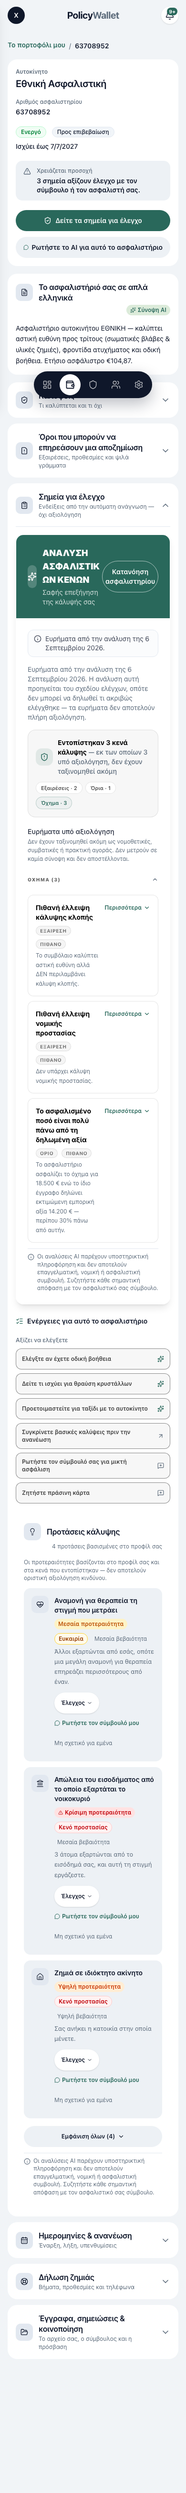
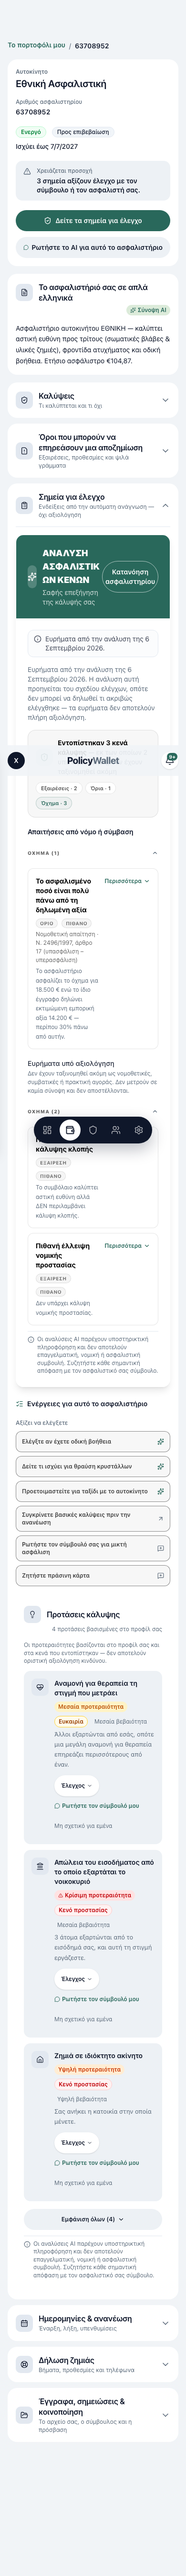
docs(transparency): F5 rendered numbers before/after, and the two seams the run exposed
Claude-Session: https://claude.ai/code/session_01HcvWFqTsFUtqnFVWiZpAyh

diff --git a/docs/evidence/transparency-f5/RESULT.md b/docs/evidence/transparency-f5/RESULT.md
@@ -1,0 +1,37 @@
+# F5 — rendered numbers before and after citation-backed provenance (PW-TRANSPARENCY-02 close-out)
+
+Seeded customer wallet (`e2e-ph@policywallet.test`: her own analysed motor policy with one under-review finding, plus the agent-demo motor policy `#63708952` carrying two unauthored findings and — new in this run — one AUTHORED finding, `insured_value_above_declared`, seeded by `scripts/seed-agent-demo.mjs`) and the seeded agent book (`e2e-agent@`), 390px, Greek.
+
+**Before** = the R3 "after" capture (`docs/evidence/transparency-r3/r3-after/`, 2026-09-05 13:5xZ, NEW-UI code before this block). The fixture differed by the one authored finding, which the pre-F5 code would have rendered as `under_review` — counted in no summary, no chip, no KPI — so the before numbers are the same with or without it. **After** = `docs/evidence/transparency-f5/after/` (2026-09-05 21:5xZ, this branch at `5b5e1455`), captured by `tests/measure/r3-evidence.spec.ts`, `r3-evidence-agent.spec.ts`, `r3-evidence-f5.spec.ts`, `r3-evidence-agent-f5.spec.ts`.
+
+## B2C dashboard and wallet
+
+| site | before | after |
+|---|---|---|
+| Home hero open-recommendation count (`recommendation.openCount`) | 4 ευρήματα ίσως χρειάζονται έλεγχο | 4 ευρήματα ίσως χρειάζονται έλεγχο — unchanged: the seed writes gap rows, not recommendation rows, so no recommendation derives from the classified finding in this fixture |
+| Home attention list | 3 items | 3 items (same three; none gap-derived) |
+| Home gap tile | «Τα ευρήματα υπό αξιολόγηση δεν περιλαμβάνονται σε αυτή τη σύνοψη — τα …» (under review only) | **«1 Νομοθετική απαίτηση»** (`gap.provenanceCount#legislative`) + the under-review sentence |
+| /protection headline | 3 σημεία υπό αξιολόγηση στα ασφαλιστήριά σας — δεν έχουν ταξινομηθεί ακόμη, οπότε δεν μετρούν ως ευρήματα. | **Εντοπίστηκε 1 σημείο προς έλεγχο στα ασφαλιστήριά σας — και 3 υπό αξιολόγηση, που δεν έχουν ταξινομηθεί ακόμη.** |
+| /protection card microcopy (coverage-insights card of the classified finding) | class label only («Υπό αξιολόγηση») | **Νομοθετική απαίτηση · Ν. 2496/1997, άρθρο 17 (υπασφάλιση – υπερασφάλιση)** (`protection-citation-390.png`) |
+| Seeded policy findings page — summary band | (run 1, before the seam fix below) «— εκ των οποίων 3 υπό αξιολόγηση…», no citation | **— εκ των οποίων 2 υπό αξιολόγηση, δεν έχουν ταξινομηθεί ακόμη**; the classified card renders `gap.citation` = «Νομοθετική απαίτηση · Ν. 2496/1997, άρθρο 17 (υπασφάλιση – υπερασφάλιση)» (`policy-citation-390.png`) |
+
+## Agent book
+
+| site | before | after |
+|---|---|---|
+| KPI «Με κενά κάλυψης» (`agent.gapClients`) | Με κενά κάλυψης0 | **Με κενά κάλυψης1** |
+| Client card chip (`client.openGapCount`) | not rendered (0 classified) | **«1 ανοιχτά ευρήματα»** (singular label fixed in this block; run 1 said «1 ανοιχτά ευρήματα») |
+| Client list group | «Σε καλή πορεία (1)» | **«Χρειάζεται προσοχή (1)»** |
+| KPI «Μέσος δείκτης προστασίας» | 16/100 | **absent** (F2) — `scoreWords: false` |
+| /insights recent-gaps pills (`gap.provenance`) | 3 × «Υπό αξιολόγηση» (run 1 — see seam 2) | **«Νομοθετική απαίτηση · Ν. 2496/1997, άρθρο 17 (υπασφάλιση – υπερασφάλιση)» · «Υπό αξιολόγηση» · «Υπό αξιολόγηση»** (`agent-insights-citation-390.png`) |
+
+## Two seams this evidence run exposed (both fixed in `5b5e1455`, both guarded)
+
+1. **The findings page and the home tally disagreed about the same finding.** Report items carry `normalizeGapSlug`'s kebab form (`insured-value-above-declared`); the provenance map is keyed by the authored snake_case slug. The home tally (definition slug) said «1 Νομοθετική απαίτηση»; the policy's own findings page said «3 υπό αξιολόγηση» and rendered no citation. Fix: `canonicalGapSlug` in the ONE lookup (`provenanceEntry`) and in `catalogueIndexOf`, so every caller agrees. Test: `provenance-citations-render.test.tsx` pins both forms and the findings-page summary.
+2. **The agent insights rows never carried a slug** (`definition: { select: { title: true } }`), so `provenanceOf(undefined)` made every pill «Υπό αξιολόγηση» since B3 — a pre-existing defect that only a classified slug could reveal. Fix: slug selected and typed on the DTO.
+
+Neither could have been found by the unit guards alone: each piece answered correctly for its own slug form. The gate checks code; journeys check the product.
+
+## Counts that name a class without a citation — deliberately
+
+`gap.provenanceCount#legislative` («1 Νομοθετική απαίτηση») on the home and the agent KPI/chip are COUNT DOORS (B4): they name no requirement, and the page they open renders each requirement with its citation. The render-site guard exempts the class-only section heading of the findings list for the same reason, with the reason in the file.

diff --git a/docs/transparency/PROGRESS.md b/docs/transparency/PROGRESS.md
@@ -47,6 +47,7 @@ One entry per goal. Each entry carries the before/after metrics the goal's accep
 | 2026-09-05 | **No rules-only run kind.** The protection refresh action now refreshes the profile engine only; `POST /api/v1/jobs/process-policy` creates and enqueues a real run (same contract shape: `processed`, plus `run_id` / `queued`; a gated run returns `processed: false, reason`). | A rules-only re-evaluation would need a second run kind that every "latest run" reader (14 sites, incl. the quota counter) must exclude — the larger blast radius. Findings change only when a run runs, which is what provenance means. C1 revisits this when a human correction must re-evaluate. | Re-add a rules-only executor behind the single writer. |
 | 2026-09-05 | **Art. 15 export keeps superseded rows** (`compliance.service.ts` named as a history reader). | A person's superseded findings are still their data. | Filter it and update the guard's list. |
 | 2026-09-05 | **`overall_success_pct` / `success_pct` dropped from the run API response** (A1.2) rather than kept for an unknown external consumer. | The number is fabricated; a consumer rendering it is the defect. Field removal from JSON does not break a client that ignores it. | Re-add the fields. |
+| 2026-09-06 | **One provenance lookup accepts the authored slug and its kebab form** (`canonicalGapSlug` in `provenanceEntry`/`catalogueIndexOf`), and the agent insights rows now select the slug. | The F5 evidence run showed the findings page rendering a classified finding as under review while the home tally said «legislative» — report items carry `normalizeGapSlug`'s form. Two answers for one finding is the defect this series exists to remove. | Revert the two functions; the test that pins both forms goes red. |
 | 2026-09-05 | **Copy freeze snapshot regenerated** for three intentional Greek copy edits (Terms §8, liability mock caption, AudienceTabs cap). | The freeze exists to make copy changes deliberate and reviewable; the diff is exactly those three lines. | Revert the fixture. |
 
 
